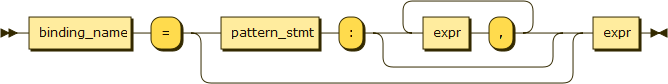
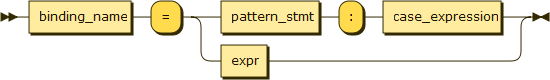
Adding documentation for case expressions

diff --git a/EBNF.md b/EBNF.md
@@ -12,6 +12,7 @@
   - [there_exists_stmt](#there_exists_stmt)
   - [function_call_expr](#function_call_expr)
   - [binding](#binding)
+  - [case_expr](#case_expr)
   - [expr](#expr)
   - [relational_expr](#relational_expr)
   - [range_expr](#range_expr)
@@ -89,7 +90,7 @@ let_stmt ::= "let" binding+
 
 ###### binding
 ```EBNF
-binding ::= binding_name '=' pattern_stmt ':' expr (',' expr)*
+binding ::= binding_name '=' pattern_stmt ':' case_expr
           | binding_name '=' expr
 ```
 <p align="left">
@@ -118,6 +119,17 @@ simple_stmt ::= binding_type
 <p align="left">
   <a href="">
     <img alt="SimpleStmt" src="./img/simple_stmt.png" />
+  </a>
+</p>
+
+###### case\_expr
+```EBNF
+case_expr ::= expr ( ',' expr )*
+            | ( '[' expr ( expr ( ',' expr )* | 'otherwise' ) ']' )+
+```
+<p align="left">
+  <a href="">
+    <img alt="CaseExpr" src="./img/case_expr.png" />
   </a>
 </p>
 
